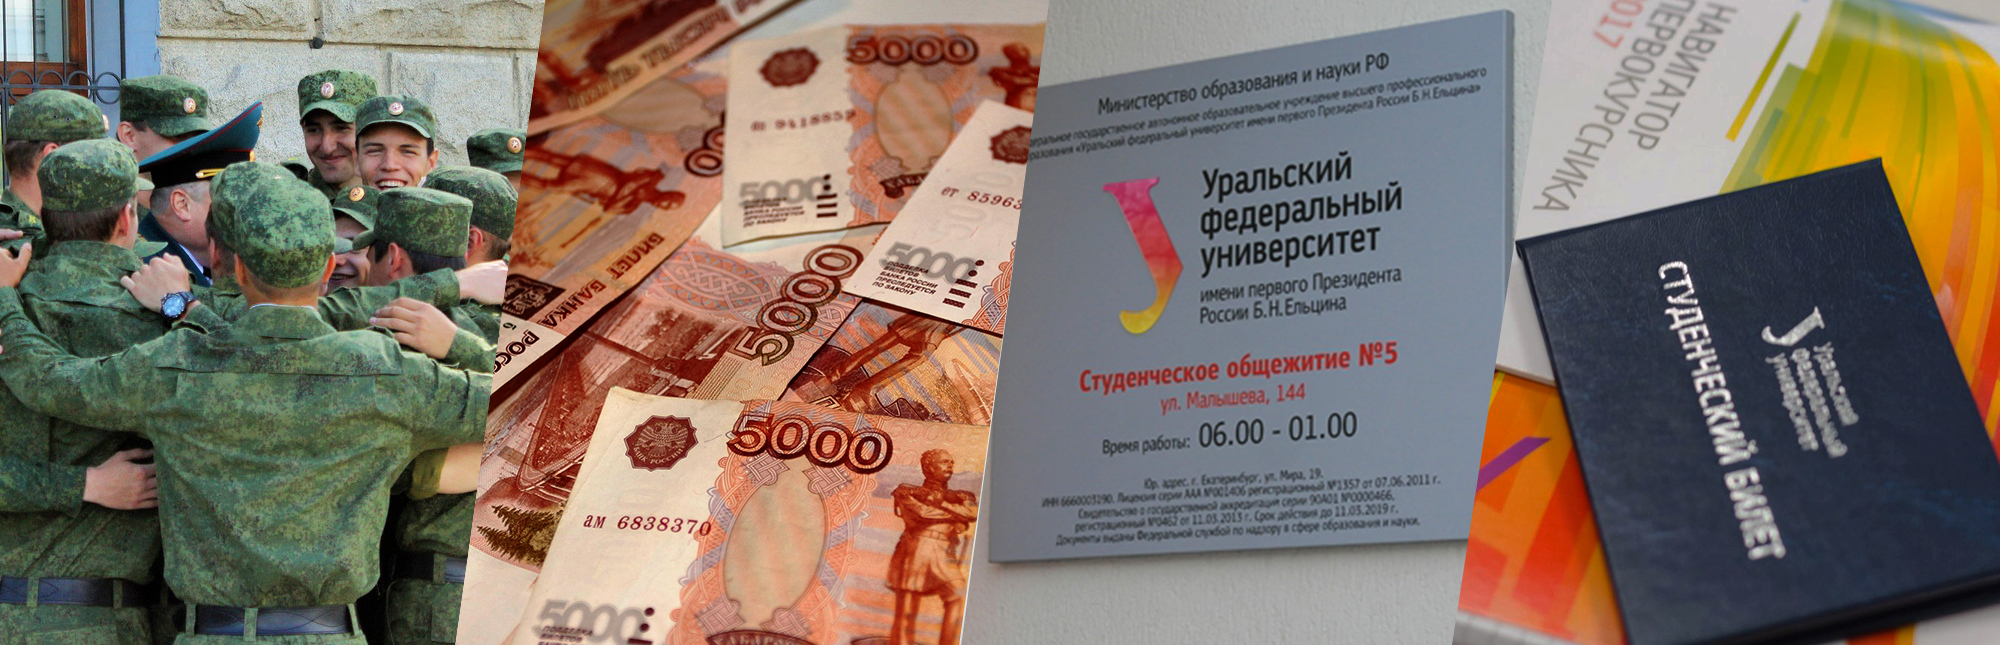
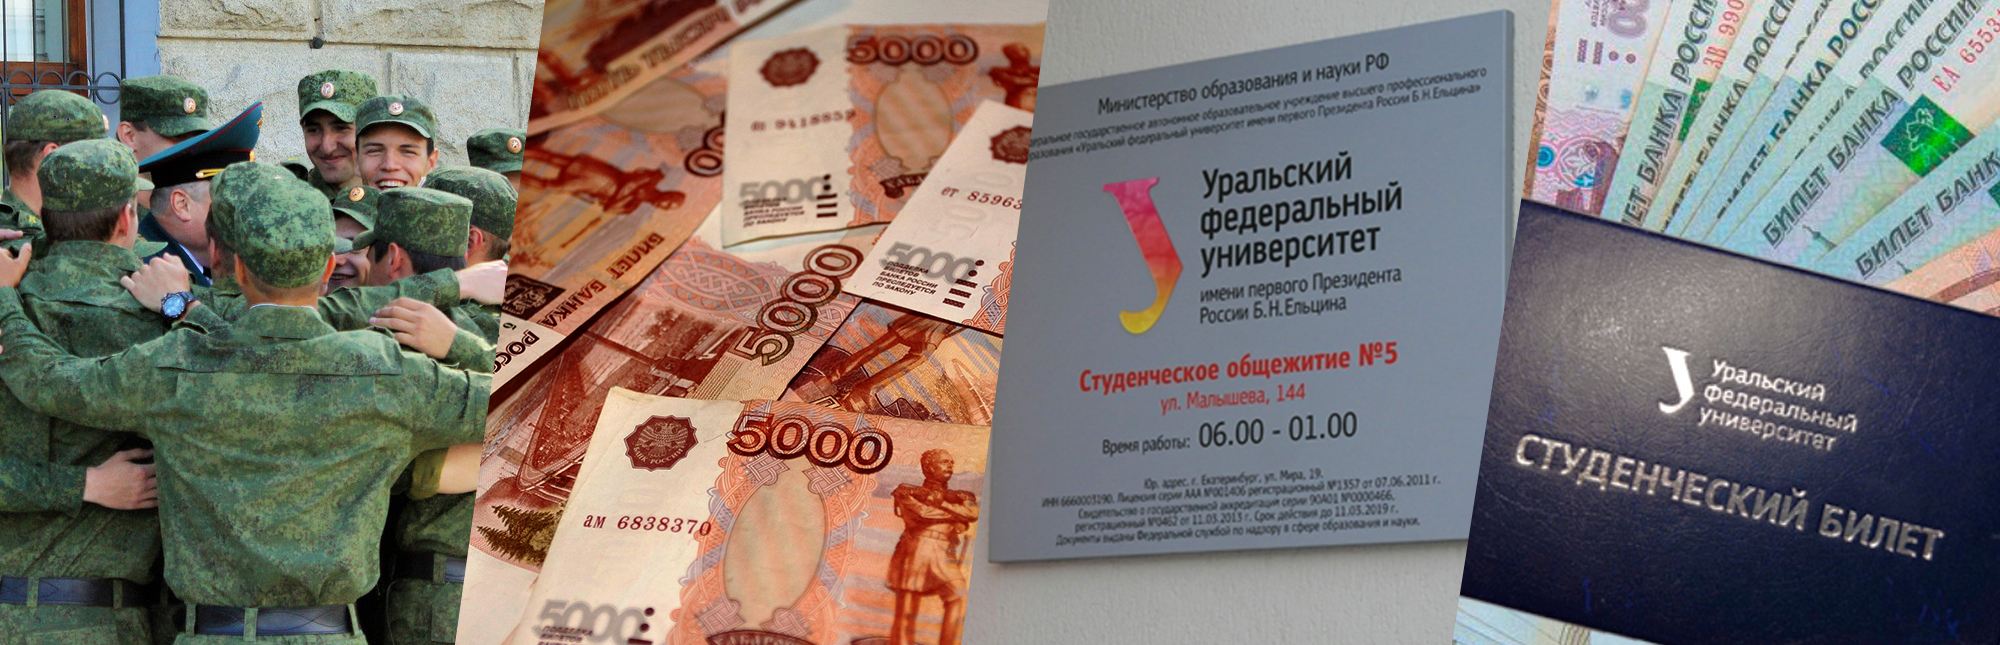
готова

Changed region(s): [[0.713, 0.0, 1.0, 1.0]]

diff --git a/main.html b/main.html
@@ -124,6 +124,43 @@
     </div>
     <br><br>
     <div class="row text-center">
+        <div class="container">
+            <h1 style="font-size: 40px;font-weight: bold;">Практические знания</h1>
+            <br>
+            <div class="row">
+                <div class="col-md-12 col-xs-12"><img src="images/practice.jpg" class="img-responsive"></div>
+            </div>
+            <br>
+            <div class="row text-left" style="font-size: 17px">
+                <div class="col-md-3">
+                    <p><h3>1 курс</h3></p>
+                    3D-моделирование инженерных объектов, основы программирования
+                    на C/C++, разработка базы данных и создание оконного приложения
+                </div>
+                <div class="col-md-3">
+                    <p><h3>2 курс</h3></p>
+                    Понимание основ электротехники, основ микро- и наноэлектроники,
+                    знание основ рассчетов на прочность и жесткость элементов электронных
+                    средств, создание схем цифровых устройств, моделирование электронных
+                    систем
+                </div>
+                <div class="col-md-3">
+                    <p><h3>3 курс</h3></p>
+                    Конструирование радиоэлектронных средств, электромеханических
+                    устройств, защита электронной аппаратуры от механических воздействий,
+                    создание схем аналоговых устройств
+                </div>
+                <div class="col-md-3">
+                    <p><h3>4 курс</h3></p>
+                    Создание микроконтроллеров, проектирование цифровых систем на
+                    кристаллах, конструирование электронных средств, основы
+                    автоматизированного проектирования устройств СВЧ
+                </div>
+            </div>
+            <br>
+        </div>
+    </div>
+    <div class="row text-center">
         <div class="container" style="font-size: 20px">
             <h1 style="font-size: 50px;font-weight: 600;">Учебный план</h1>
             <br>
@@ -185,12 +222,11 @@
                 <div class="col-md-3">
                     <p><h3>Материальная помощь</h3></p>
                     Раз в семестр студент может подать заявление на материальную помощь. 
-                    Институт выплачивает до 5000 рублей студентам, обратившимся за помощью 
+                    Институт выплачивает до <b class="score">5000</b> рублей студентам, обратившимся за помощью 
                     в связи с покупкой демисезонной одежды, оплатой медицинских операций, 
                     лечением, приобретение медикаментов, проездом к месту жительства 
                     родителей, арендой квартиры в городе, созданием семьи и многим другим. 
-                    Подробно об этом можно прочитать по ссылке (https://vk.com/@info_urfu- 
-                    mat-pomosch-na-universitete).
+                    Подробно об этом можно прочитать по <a href="https://vk.com/@info_urfu-mat-pomosch-na-universitete">ссылке</a>.
                 </div>
                 <div class="col-md-3">
                     <p><h3>Общежитие</h3></p>
@@ -203,7 +239,15 @@
                 </div>
                 <div class="col-md-3">
                     <p><h3>Стипендия</h3></p>
-                    Стандартный размер стипендии студента — 2380 рублей. Её получают все первокурсники на протяжении первого семестра. Если студент имеет хотя бы одну тройку по итогу семестра, он лишается стипендии. Если студент закрывает семестр одними “пятёрками”, то он получает повышенную стипендию в размере 3140 рублей. При учебе на “отлично” или “хорошо” студент в воз-расте до 20 лет, имеющий 1 родителя инвалида 1 группы получает 6000 рублей в месяц (6900 с учетом районного коэффициента). Помимо этого существуют различные именные стипендии. О них можно подробнее узнать здесь
+                    Стандартный размер стипендии студента — <b class="score">2380</b>
+                    рублей. Её получают все первокурсники на протяжении первого семестра.
+                    Если студент имеет хотя бы одну тройку по итогу семестра, он лишается
+                    стипендии. Если студент закрывает семестр одними “пятёрками”, то он
+                    получает повышенную стипендию в размере <b class="score">3140</b> рублей. При учебе на
+                    “отлично” или “хорошо” студент в воз-расте до 20 лет, имеющий 1
+                    родителя инвалида 1 группы получает <b class="score">6000</b> рублей в месяц
+                    (<b class="score">6900</b> с учетом районного коэффициента). Помимо этого существуют
+                    различные именные стипендии. О них можно подробнее узнать здесь
                     <a name="professions"></a>
                     <a href="https://urfu.ru/ru/students/study/scholarships/imennye-stipendii/">Именные стипендии</a>
                 </div>
